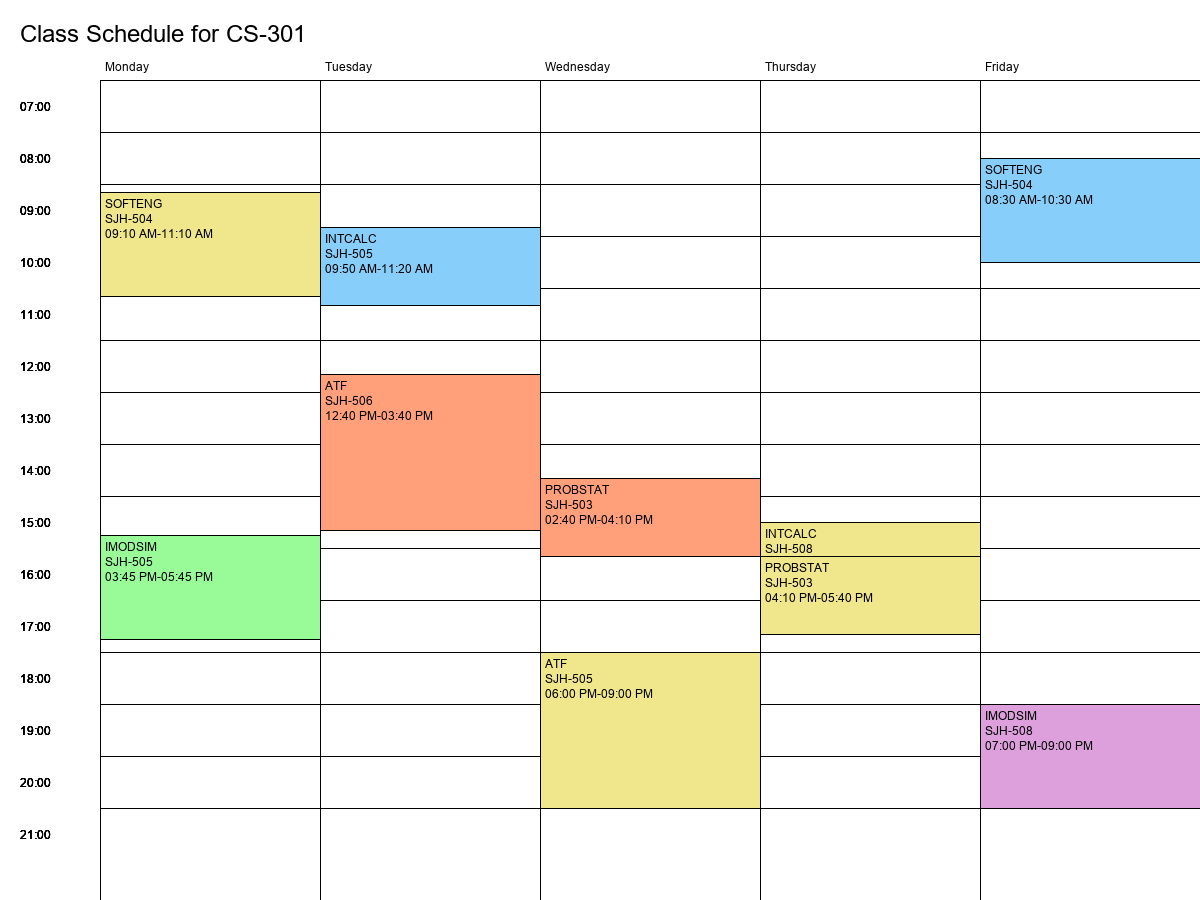
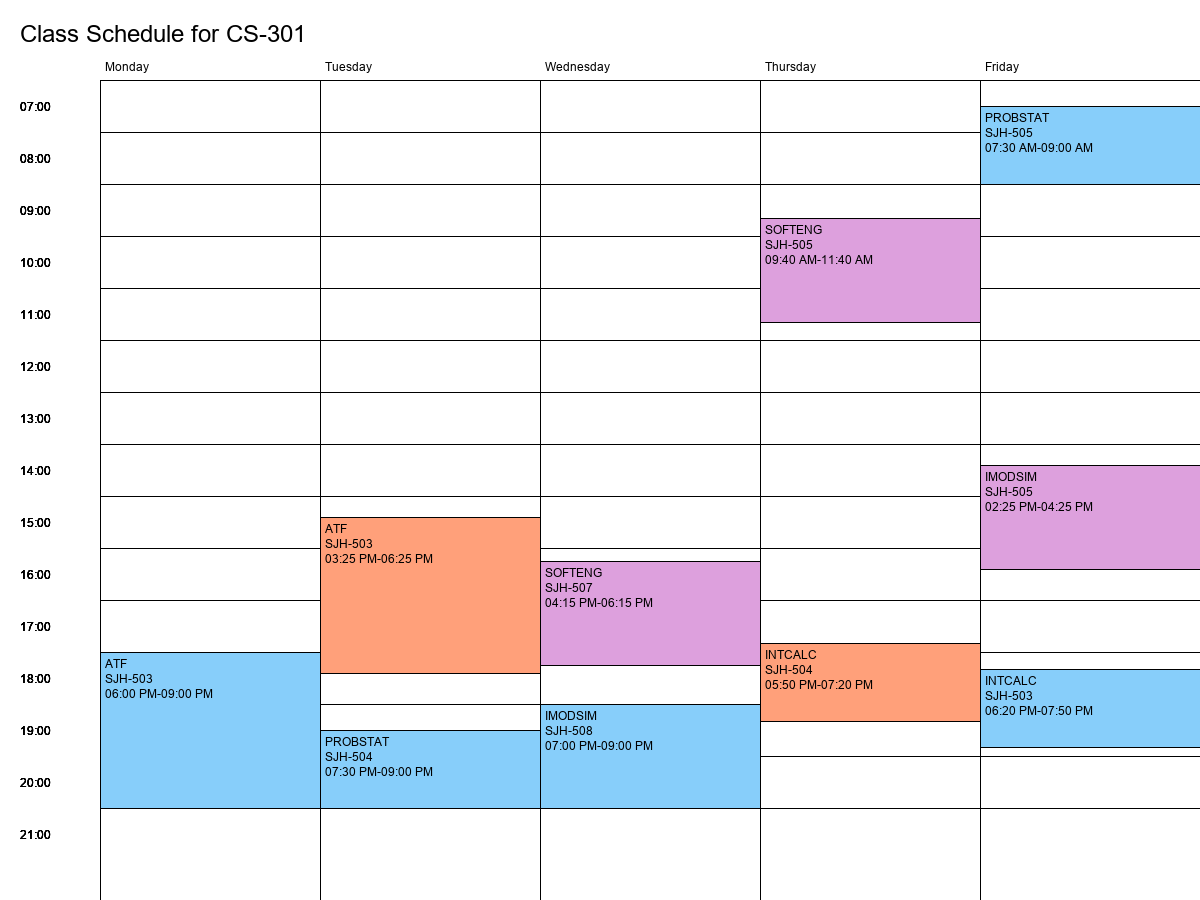
feat: add generate_random_schedule

diff --git a/main-rewrite.py b/main-rewrite.py
@@ -1,4 +1,5 @@
-from datetime import timedelta
+import random
+from datetime import datetime, timedelta
 from enum import Enum, IntEnum
 
 
@@ -61,9 +62,9 @@ class Subject:
         self._name = name
         self._instructors = instructors
         self._subject_type = subject_type
-        self.get_subject_duration
+        self.set_subject_duration
 
-    def get_subject_duration(self) -> None:
+    def set_subject_duration(self) -> None:
         match self._subject_type:
             case SubjectType.SPECIALIZED_LECTURE:
                 self._duration = timedelta(hours=2)
@@ -71,6 +72,9 @@ class Subject:
                 self._duration = timedelta(hours=3)
             case SubjectType.GENERAL_EDUCATION:
                 self._duration = timedelta(hours=1, minutes=30)
+
+    def get_subject_duration(self) -> timedelta:
+        return self._duration
 
     def get_subject_name(self) -> str:
         return self._name
@@ -89,20 +93,130 @@ class Department:
     def get_all_subjects(self) -> dict[YearLevel, list[Subject]]:
         return self._year_level_subjects
 
-    # get the subjects of a given year level
-    def get_level_subjects(self, year_level: YearLevel) -> list[Subject]:
-        return self._year_level_subjects[year_level]
+    def __str__(self) -> str:
+        return f"{self._prefix}"
 
 
 class Block:
     def __init__(
-        self,
-        block_num: str,
-        department: Department,
+        self, block_num: str, department: Department, year_level: YearLevel
     ) -> None:
+        self._block_num = block_num
+        self._department = department
+        self._year_level = year_level
+
+    def get_block_num(self) -> str:
+        return self._block_num
+
+    def get_year_level(self) -> YearLevel:
+        return self._year_level
+
+    # get the subjects of a given year level
+    def get_level_subjects(self) -> list[Subject]:
+        all_subjects = self._department.get_all_subjects()
+        return all_subjects[self._year_level]
+
+
+class TimeSlot:
+    def __init__(self, day: Day, start_time: datetime, end_time: datetime) -> None:
+        self._day = day
+        self._start_time = start_time
+        self._end_time = end_time
+
+    def get_day(self) -> Day:
+        return self._day
+
+
+class Schedule:
+    def __init__(self, blocks: list[Block], rooms: list[Room]):
+        self._blocks = blocks
+        self._rooms = rooms
+        self._assignments = []  # List of (Block, Subject, Room, TimeSlot) tuples
+        self.generate_random_schedule()
+
+    def generate_random_time(self, subject: Subject) -> tuple[datetime, datetime]:
+        # generate a start time. combining today() and min.time() sets the date and time to today midnight
+        # it sets the start time at 7AM and generates random minutes spanning 14 hours and where each hour
+        # has 12 intervals of 5 minutes
+        start_time = datetime.combine(
+            datetime.today(), datetime.min.time()
+        ) + timedelta(hours=7, minutes=random.randint(0, 14 * 12) * 5)
+
+        end_time = start_time + subject.get_subject_duration()
+
+        # If end time is after 9:00 PM, adjust start time
+        if end_time.hour >= 21:
+            # Start at 9PM and subtract the subject's duration
+            start_time = (
+                datetime.combine(datetime.today(), datetime.min.time())
+                + timedelta(hours=21)
+                - subject.get_subject_duration()
+            )
+
+            # adjust the end to be at 9PM
+            end_time = datetime.combine(
+                datetime.today(), datetime.min.time()
+            ) + timedelta(hours=21)
+        return start_time, end_time
+
+    def schedule_subject(
+        self, block: Block, subject: Subject, day: Day, scheduled_days: set
+    ) -> None:
+        # Choose a random room
+        room = random.choice(self._rooms)
+
+        # generate a random start and end time
+        start_time, end_time = self.generate_random_time(subject)
+
+        time_slot = TimeSlot(day, start_time, end_time)
+        self._assignments.append((block, subject, room, time_slot))
+        scheduled_days.add(day)
+
+    def generate_random_schedule(self):
+        # Make sure assignments are always new
+        self._assignments = []
+
+        # What gets scheduled on Monday, will also be scheduled to the other day
+        day_pairs = (
+            (Day.MONDAY, Day.THURSDAY),
+            (Day.TUESDAY, Day.FRIDAY),
+            (Day.WEDNESDAY, None),
+        )
+
+        for block in self._blocks:
+            # Start scheduling subjects
+            for subject in block.get_level_subjects():
+                # ensures that the subject is not assigned on the same day.
+                scheduled_days = set()
+
+                for day1, day2 in day_pairs:
+                    if day1 not in scheduled_days:
+                        # when a subject is assigned on one day, it is also assigned to its pair
+                        self.schedule_subject(block, subject, day1, scheduled_days)
+
+                    # Handling the None element in the last day pair
+                    if day2 and day2 not in scheduled_days:
+                        self.schedule_subject(block, subject, day2, scheduled_days)
+
+    def calculate_fitness(self):
         pass
 
 
-if "__main__" == "__name__":
+if __name__ == "__main__":
     sir_uly = Instructor("Sir Uly")
     subject = Subject("ATF", [sir_uly], SubjectType.SPECIALIZED_LECTURE)
+    dept = Department("CS", {YearLevel.FIRST: [subject]})
+    ROOMS = [
+        ["SJH-503", RoomType.LECTURE],
+        ["SJH-504", RoomType.LAB],
+    ]
+    rooms = [Room(room_num, room_type) for room_num, room_type in ROOMS]
+
+    block1 = Block("301", dept, year_level=YearLevel.FIRST)
+
+    sched = Schedule([block1], rooms)
+    day_pairs = ((Day.MONDAY, Day.THURSDAY), (Day.TUESDAY, Day.FRIDAY))
+
+    for day1, day2 in day_pairs:
+        print(day1.name)
+        print(day2.name)

diff --git a/main.py b/main.py
@@ -291,6 +291,7 @@ class Schedule:
 
                     time_slot = TimeSlot(day, start_time, end_time)
                     self.assignments.append((block, subject, room, time_slot))
+        # print(f"The assignments are: {len(self.assignments)}")
 
     def calculate_fitness(self) -> float:
         conflicts = defaultdict(int)
@@ -744,12 +745,17 @@ if __name__ == "__main__":
     sir_glenn = Instructor("Sir Glenn Mañalac")
     sir_lloyd = Instructor("Sir Lloyd Estrada")
     maam_raquel = Instructor("Ma'am Raquel Rivera")
+    sir_marc = Instructor("Marc Corporal")
+    mam_max = Instructor("Max")
+    anisa = Instructor("Anisa")
+    patrick = Instructor("Patrick")
+    kyle = Instructor("Kyle")
 
-    IMODSIM = Subject("IMODSIM", [maam_lou], timedelta(hours=2))
-    PROBSTAT = Subject("PROBSTAT", [sir_lloyd], timedelta(hours=1, minutes=30))
-    INTCALC = Subject("INTCALC", [sir_glenn], timedelta(hours=1, minutes=30))
-    ATF = Subject("ATF", [sir_uly], timedelta(hours=3))
-    SOFTENG = Subject("SOFTENG", [maam_raquel], timedelta(hours=2))
+    IMODSIM = Subject("IMODSIM", [maam_lou, sir_marc], timedelta(hours=2))
+    PROBSTAT = Subject("PROBSTAT", [sir_lloyd, mam_max], timedelta(hours=1, minutes=30))
+    INTCALC = Subject("INTCALC", [sir_glenn, anisa], timedelta(hours=1, minutes=30))
+    ATF = Subject("ATF", [sir_uly, patrick], timedelta(hours=3))
+    SOFTENG = Subject("SOFTENG", [maam_raquel, kyle], timedelta(hours=2))
 
     ROOMS = [
         ["SJH-503", 45, RoomType.LECTURE],
@@ -775,7 +781,7 @@ if __name__ == "__main__":
     ga = ImprovedGeneticAlgorithm(
         population_size=150,
         mutation_rate=0.2,
-        blocks=[block1, block2, block3],
+        blocks=[block1, block2, block3, block4],
         rooms=rooms,
         num_subpopulations=10,
         migration_interval=10,
